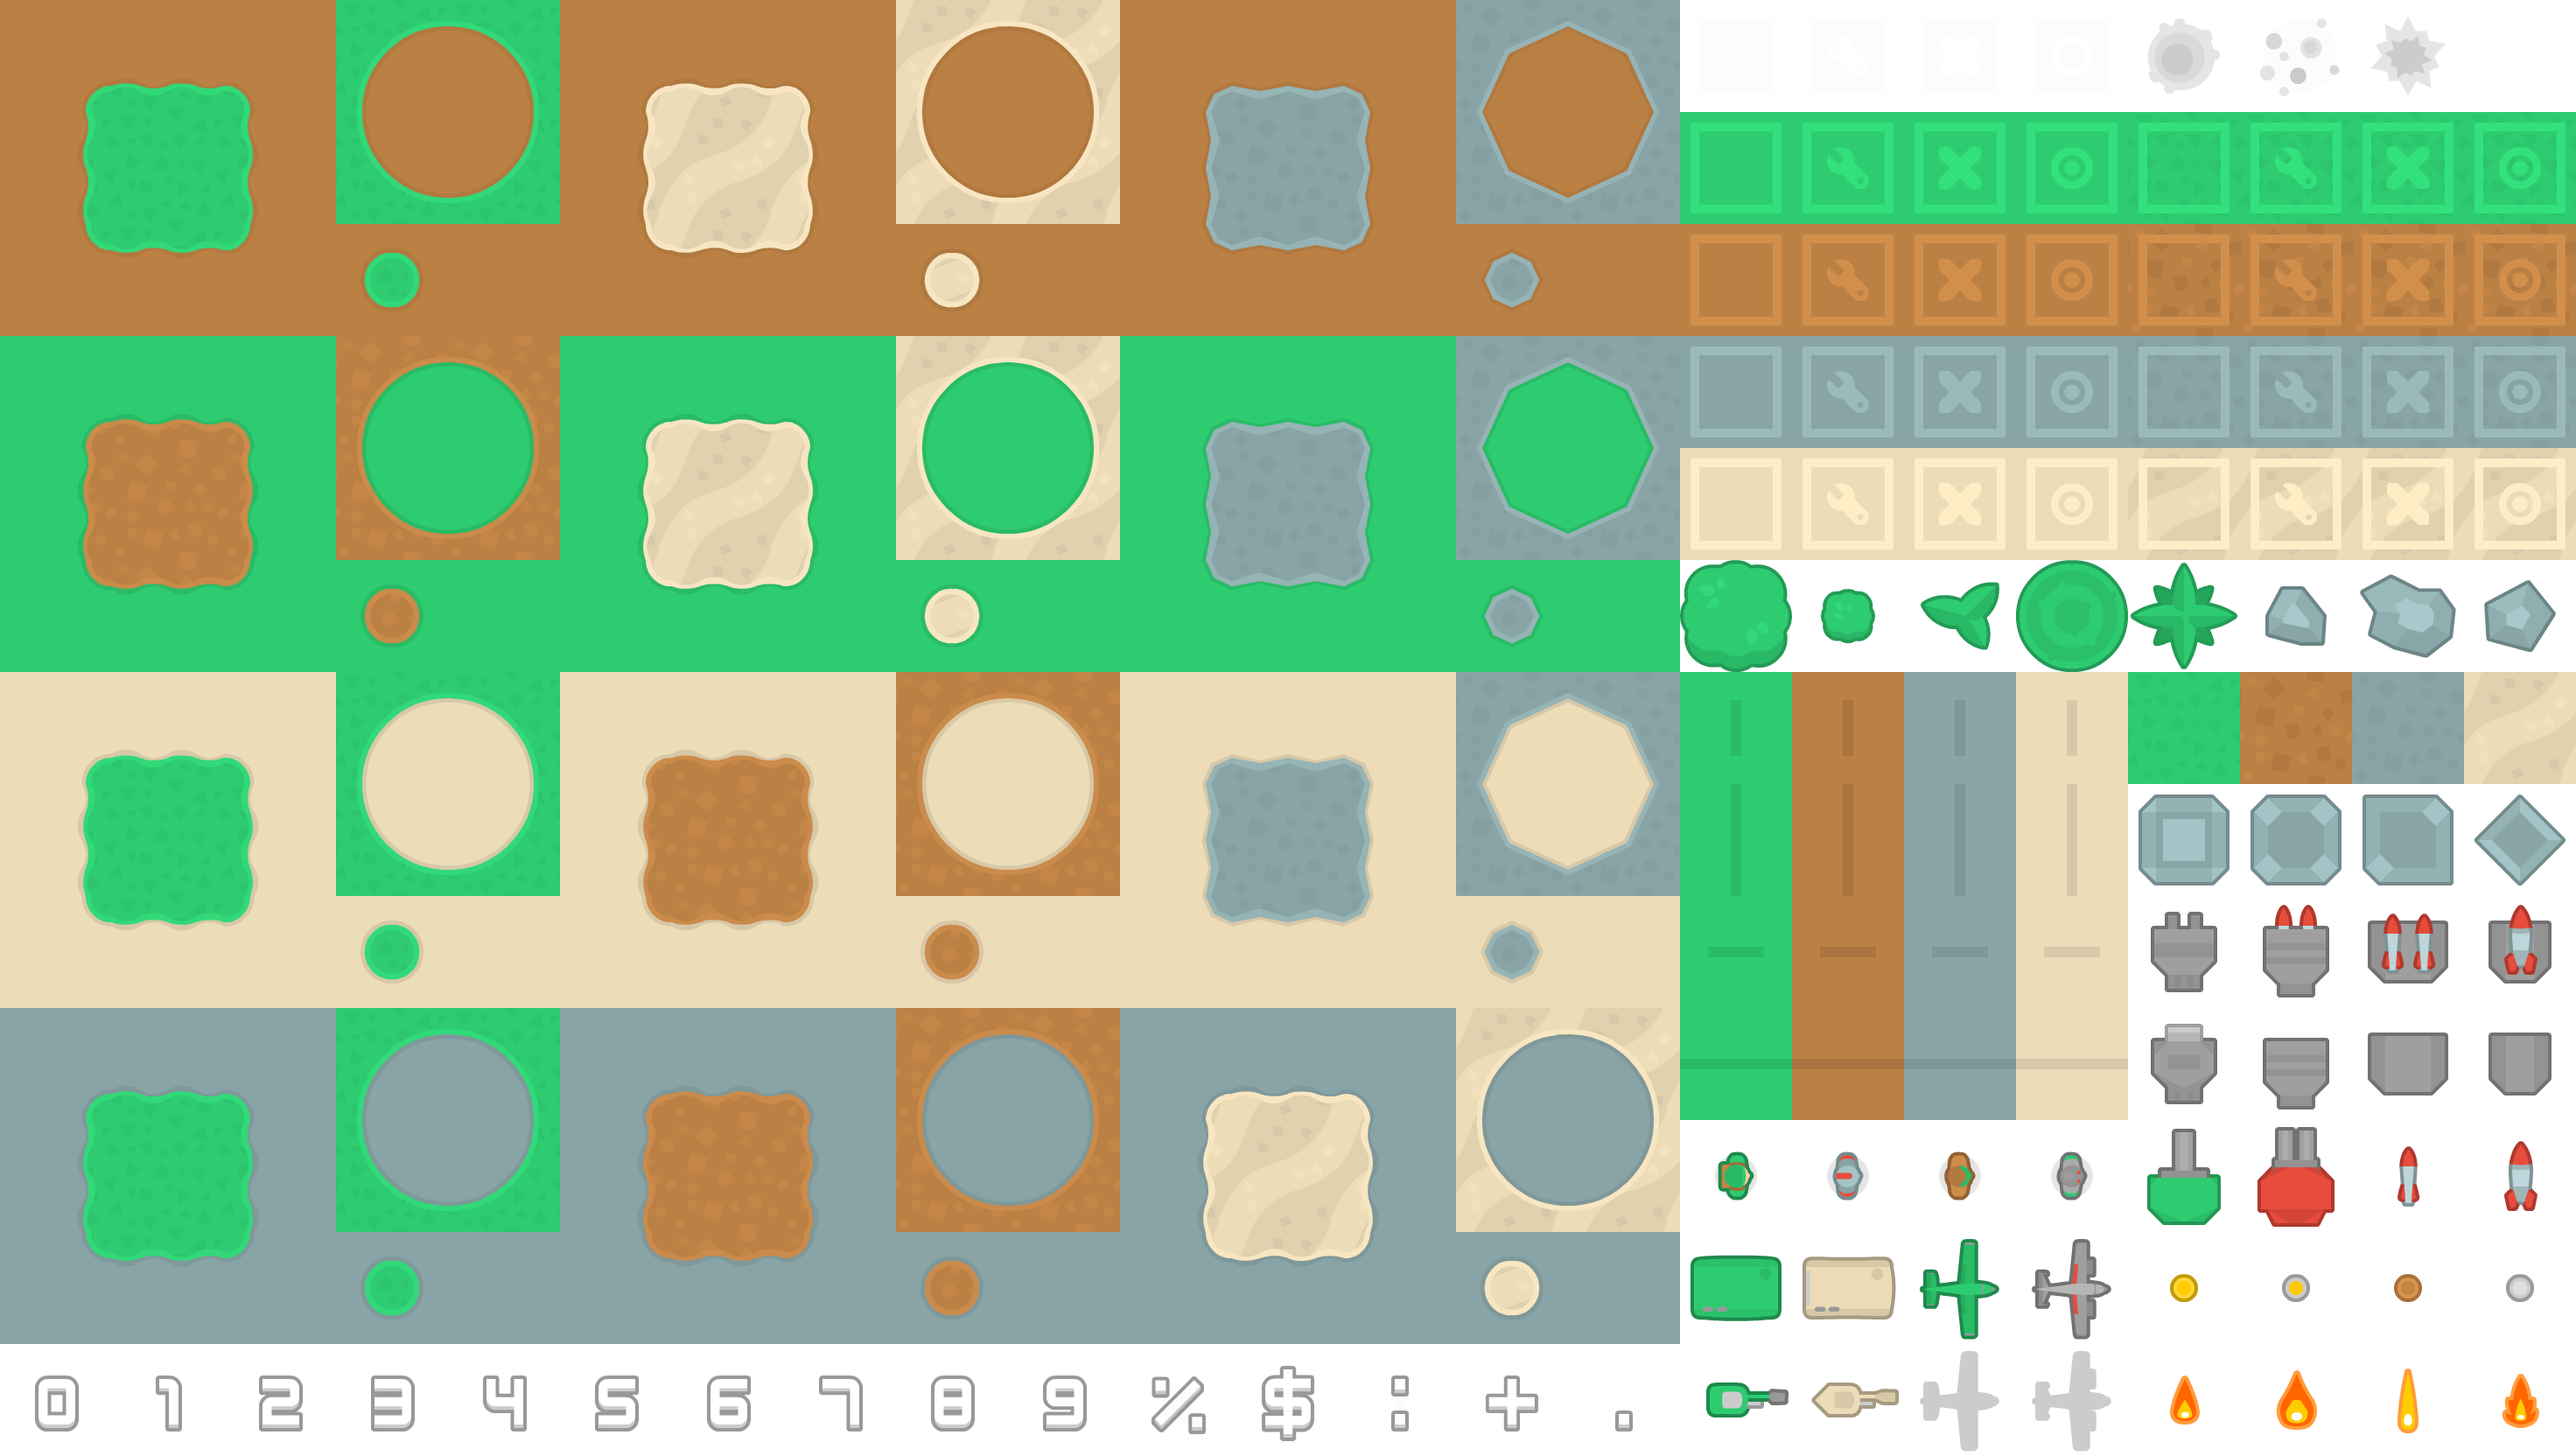
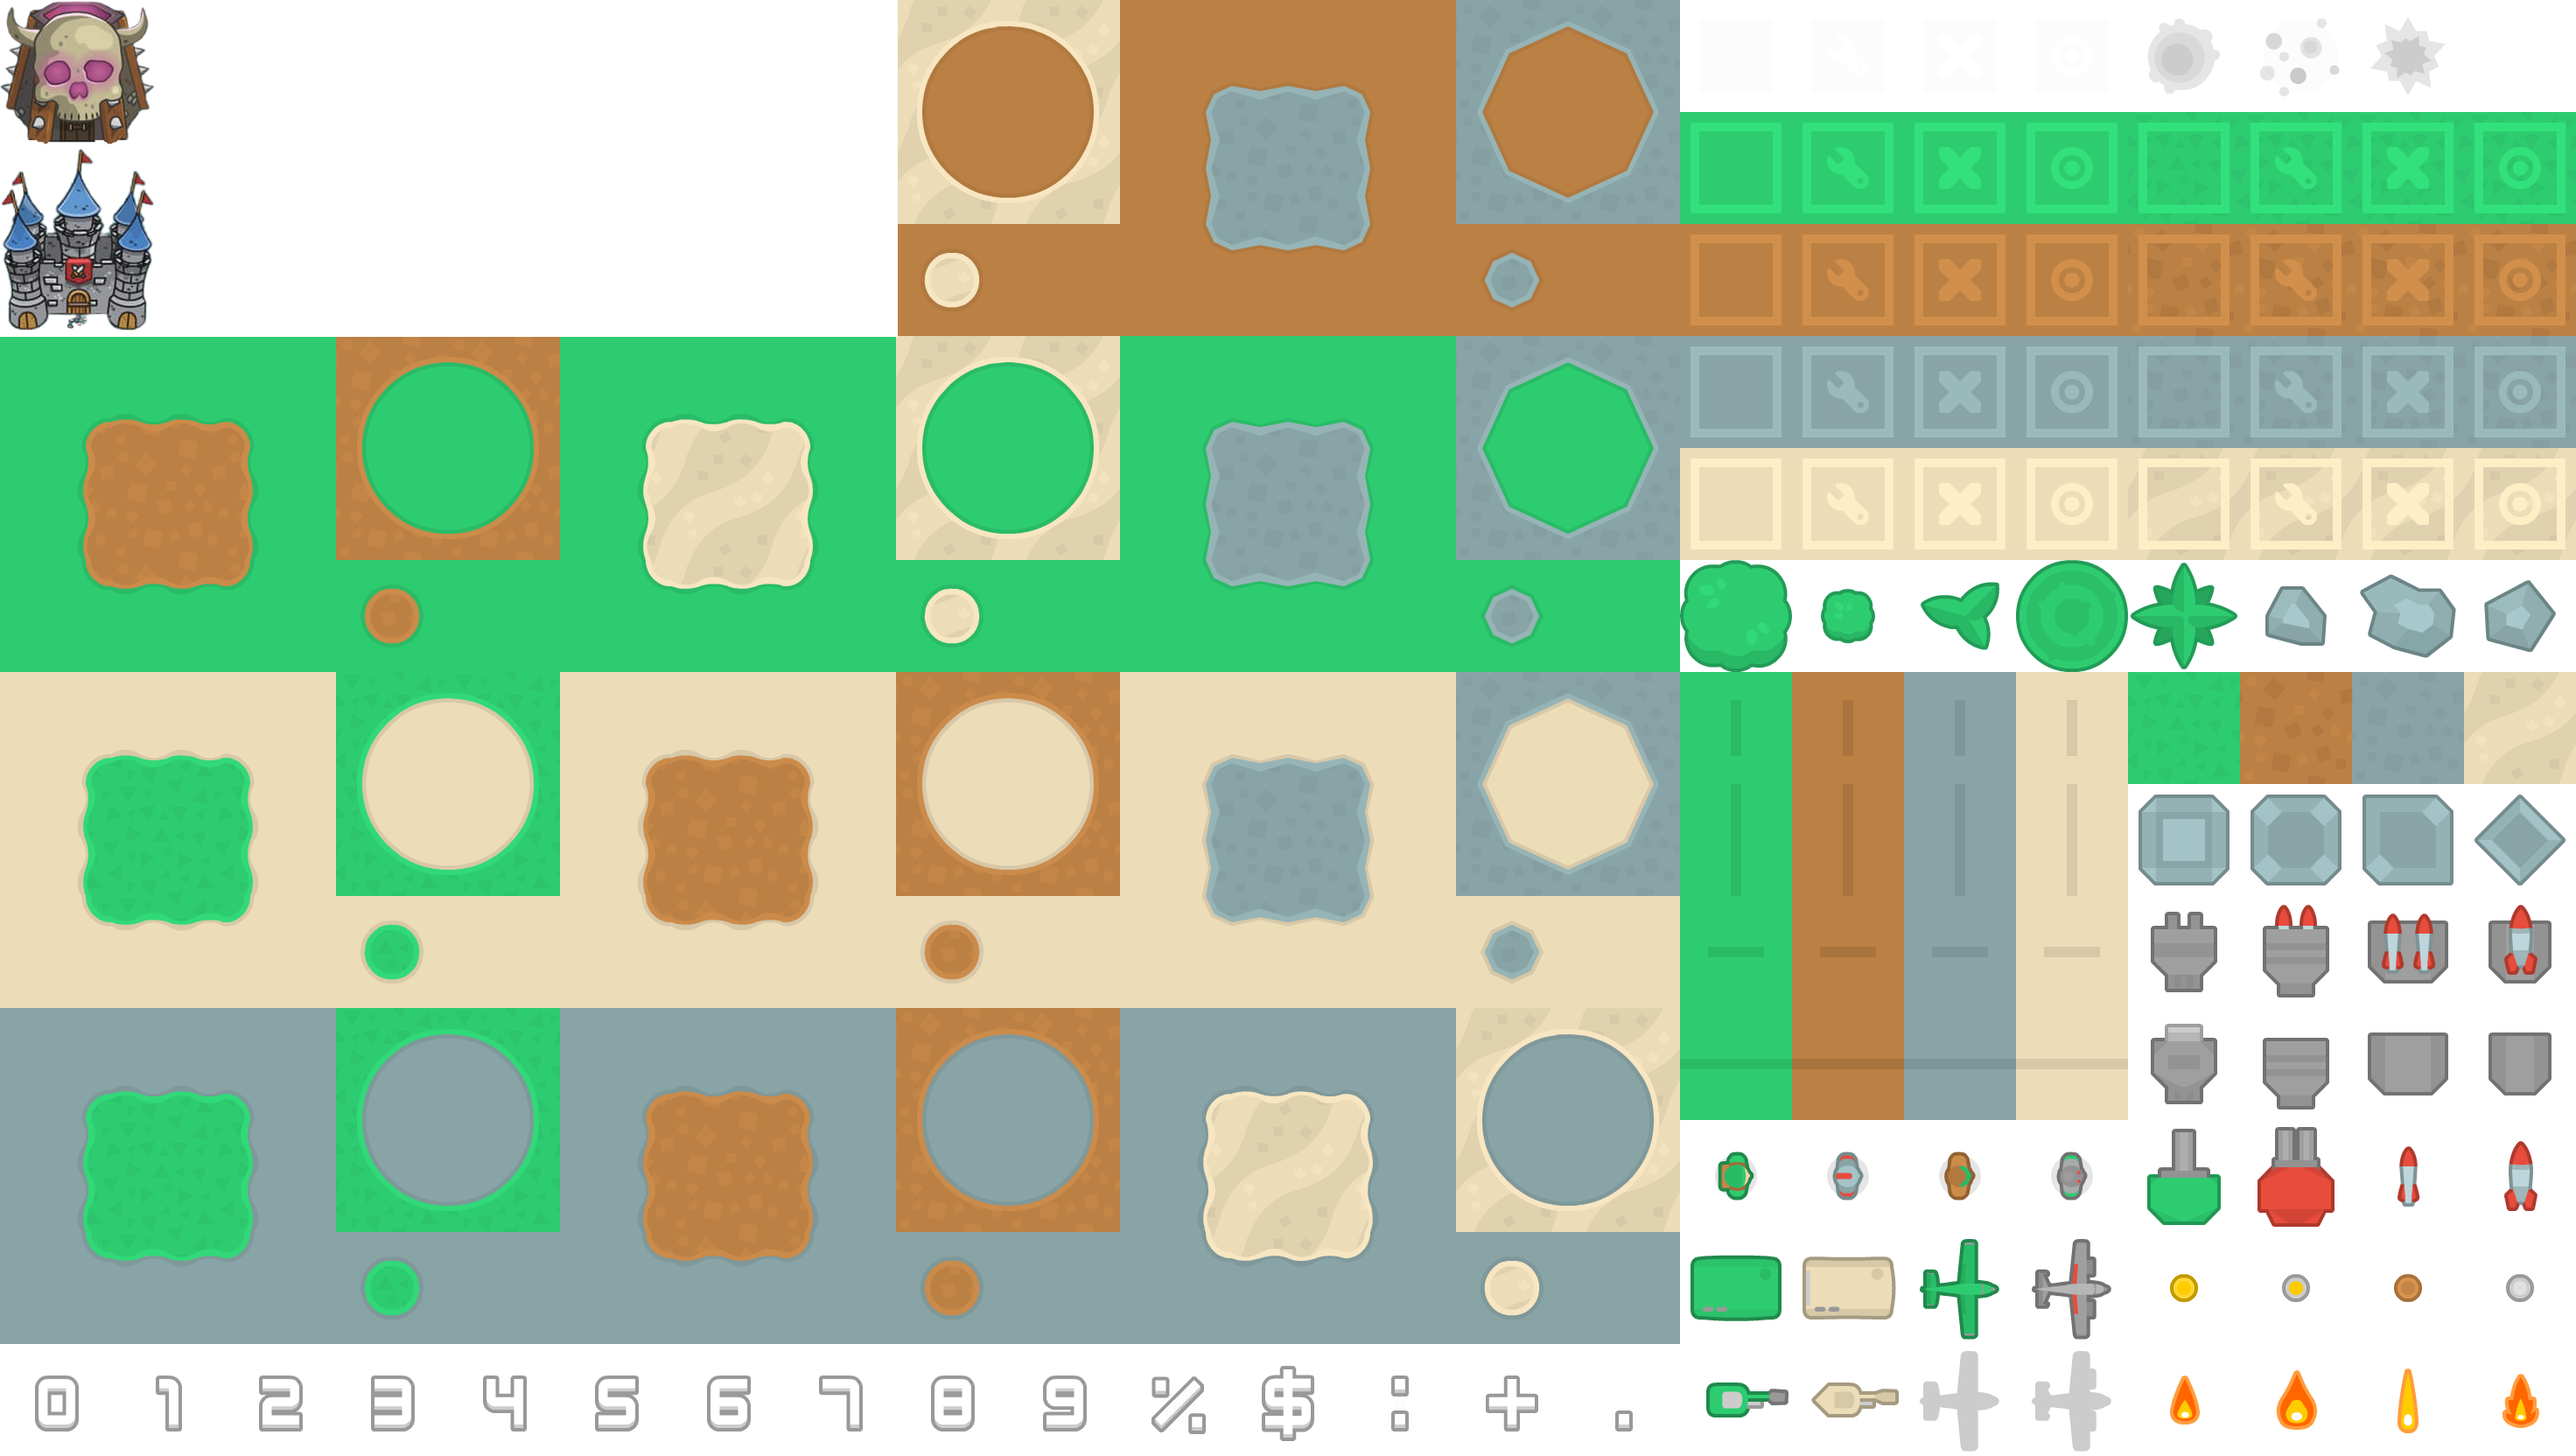
[Sprites] Add base castle and enemy tiles

Changed region(s): [[0.0, 0.0, 0.375, 0.25]]

diff --git a/scripts/td-asset.js b/scripts/td-asset.js
@@ -74,13 +74,23 @@ export class CKenneyAssetsCollection extends IAssetCollection
 
         switch (type)
         {
+            case AssetType.endTile: 
+                asset.sx = 0;
+                asset.sy = 170;
+                asset.sWidth = 180;
+                asset.sHeight = 220;
+                break;
+            case AssetType.beginTile:
+                asset.sx = 0;
+                asset.sy = 0;
+                asset.sWidth = 180;
+                asset.sHeight = 170;
+                break;
             case AssetType.emptyTile:
                 asset.sx = this.sTileWidth * 22;
                 asset.sy = this.sTileHeight * 6;
                 break;
             case AssetType.roadTile:
-            case AssetType.endTile:
-            case AssetType.beginTile:
                 asset.sx = this.sTileWidth * 21;
                 asset.sy = this.sTileHeight * 6;
                 break;    

diff --git a/scripts/td-level-random.js b/scripts/td-level-random.js
@@ -17,10 +17,20 @@ export class CRandomLevel extends ILevel
 
         let decorations = new CDecorationsLayer(this.width, this.height);
         decorations.generateRandomDecorations(floor);
+        decorations.addBeginAndEndDecorations(floor);
         
         this.layers.push(floor);
         this.layers.push(decorations);
     }
+
+    getPath()
+    {
+        return this.layers[0].path;
+    }
+
+    //
+    // Tests
+    //
 
     static simpleTest()
     {
@@ -41,7 +51,7 @@ export class CRandomLevel extends ILevel
         level.draw(ctx, tiles);
         await sleep(1000);
 
-        ctx.clearRect(0, 0, canvas.width, canvas.height);
+        //ctx.clearRect(0, 0, canvas.width, canvas.height);
     }
 }
 

diff --git a/scripts/td-layer-decorations.js b/scripts/td-layer-decorations.js
@@ -46,6 +46,15 @@ export class CDecorationsLayer extends ILayer
         }
     }
 
+    addBeginAndEndDecorations(floorLayer)
+    {
+        let [x,y] = floorLayer.begin;
+        this.tilesMap[x][y] = AssetType.beginTile;
+        
+        [x,y] = floorLayer.end;
+        this.tilesMap[x][y] = AssetType.endTile;
+    }
+
     static async generateDecorationsLayerTest()
     {
         let emptyLayer = new ILayer(5,5);

diff --git a/scripts/td-test.js b/scripts/td-test.js
@@ -14,8 +14,8 @@ class CTest
         await CDecorationsLayerTest.run();
         await CRandomLevelTest.run();
         
-        CUtilsTest.run();
-        CMazeTest.run();
+        //CUtilsTest.run();
+        //CMazeTest.run();
     }
 }
 
